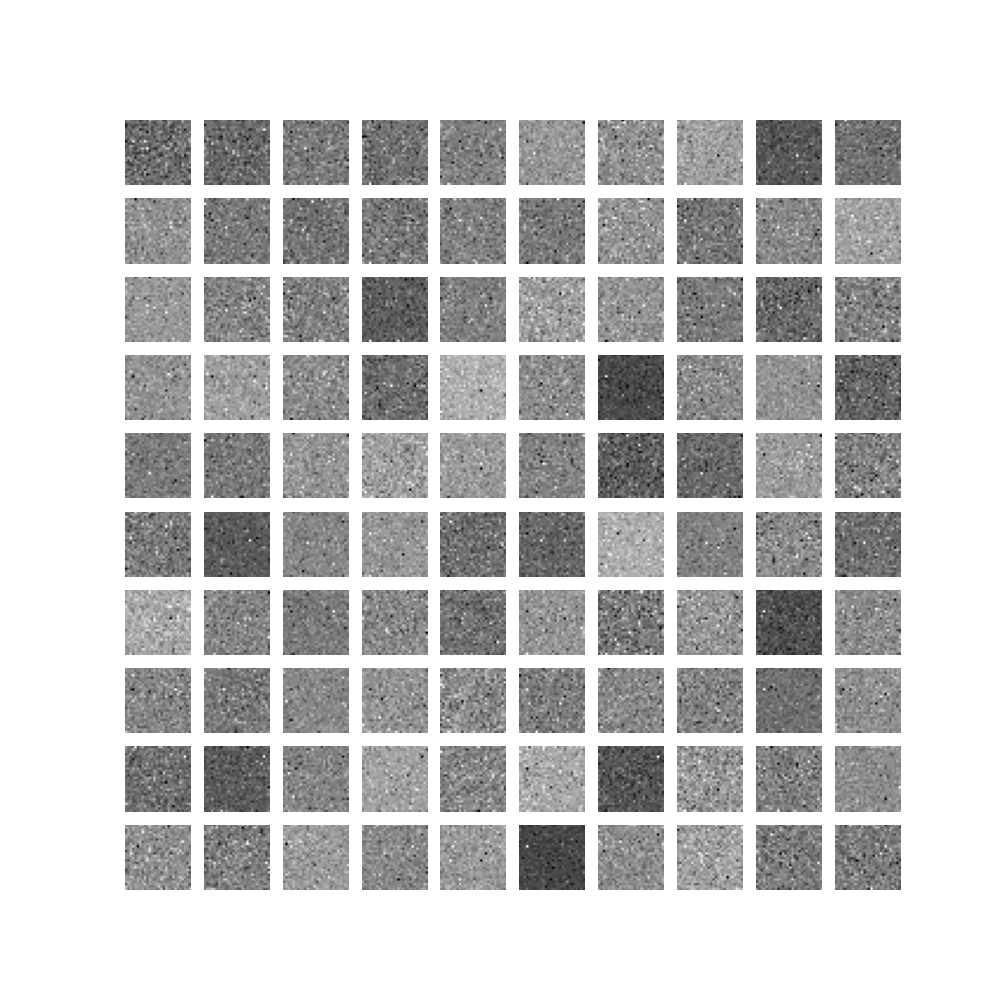
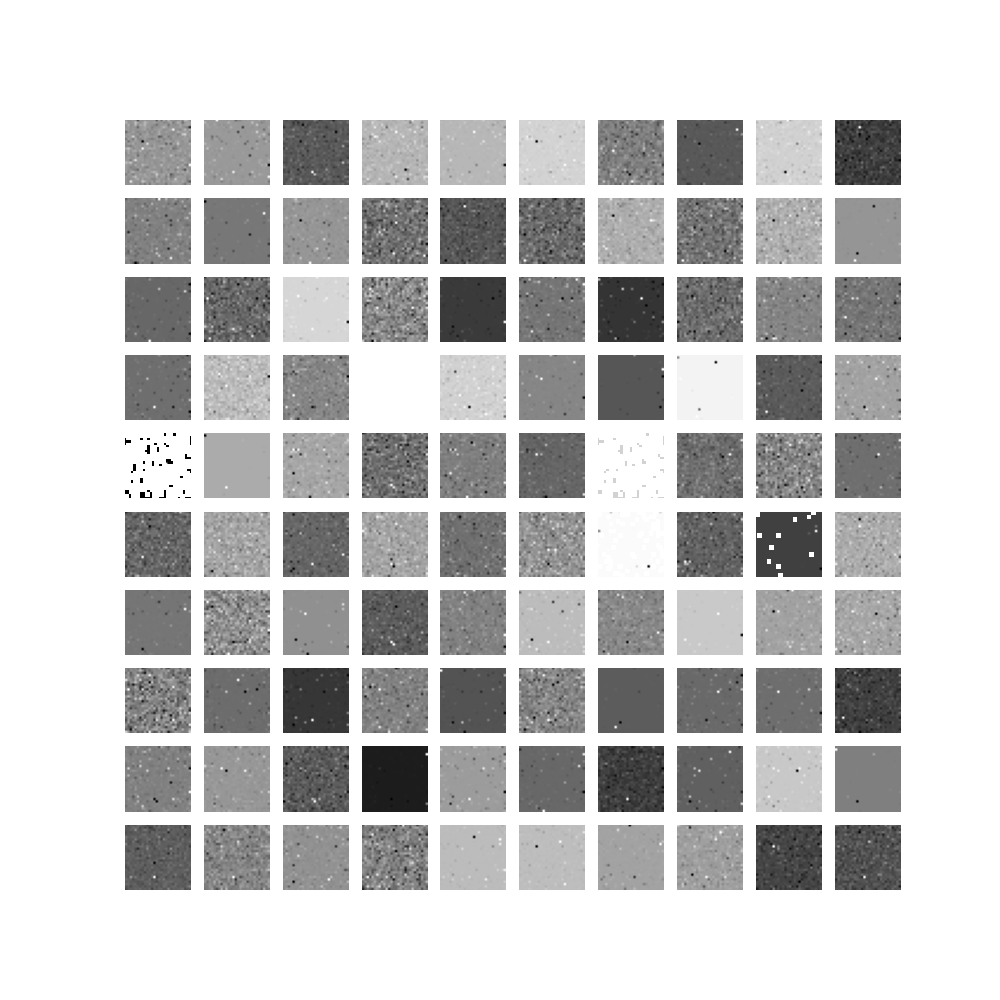
add learn Random Mask

Changed region(s): [[0.124, 0.093, 0.899, 0.899]]

diff --git a/src/mamll/dgm/models/flow.py b/src/mamll/dgm/models/flow.py
@@ -40,7 +40,7 @@ class MaskedCouplingLayer(nn.Module):
     An affine coupling layer for a normalizing flow.
     """
 
-    def __init__(self, scale_net, translation_net, mask):
+    def __init__(self, scale_net, translation_net, mask, learn_mask=False):
         """
         Define a coupling layer.
 
@@ -55,7 +55,7 @@ class MaskedCouplingLayer(nn.Module):
         super(MaskedCouplingLayer, self).__init__()
         self.scale_net = scale_net
         self.translation_net = translation_net
-        self.mask = nn.Parameter(mask, requires_grad=False)
+        self.mask = nn.Parameter(mask, requires_grad=learn_mask)
 
     def forward(self, x):
         """
@@ -109,7 +109,7 @@ class MaskedCouplingLayer(nn.Module):
 class RandomMask(MaskedCouplingLayer):
     def __init__(self, scale_net, translation_net, D):
         mask = torch.rand((D,))
-        super().__init__(scale_net, translation_net, mask)
+        super().__init__(scale_net, translation_net, mask, learn_mask=True)
 
 class ChequerboardMask(MaskedCouplingLayer):
     def __init__(self, scale_net, translation_net, D):
